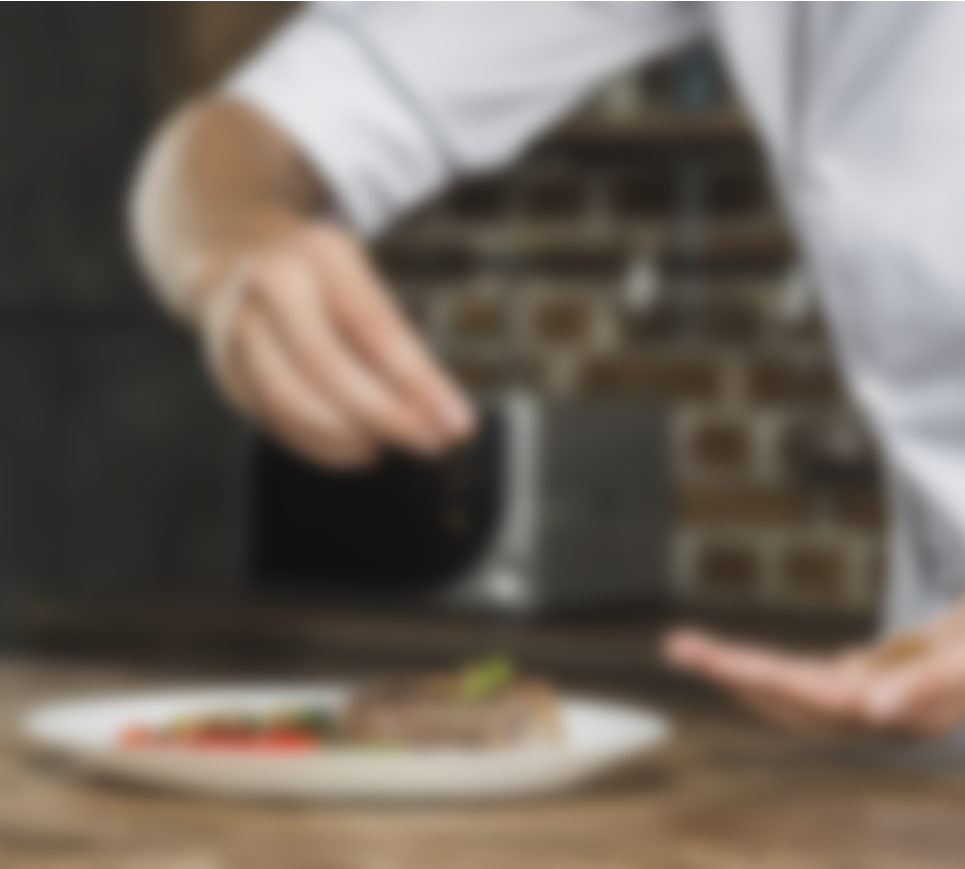
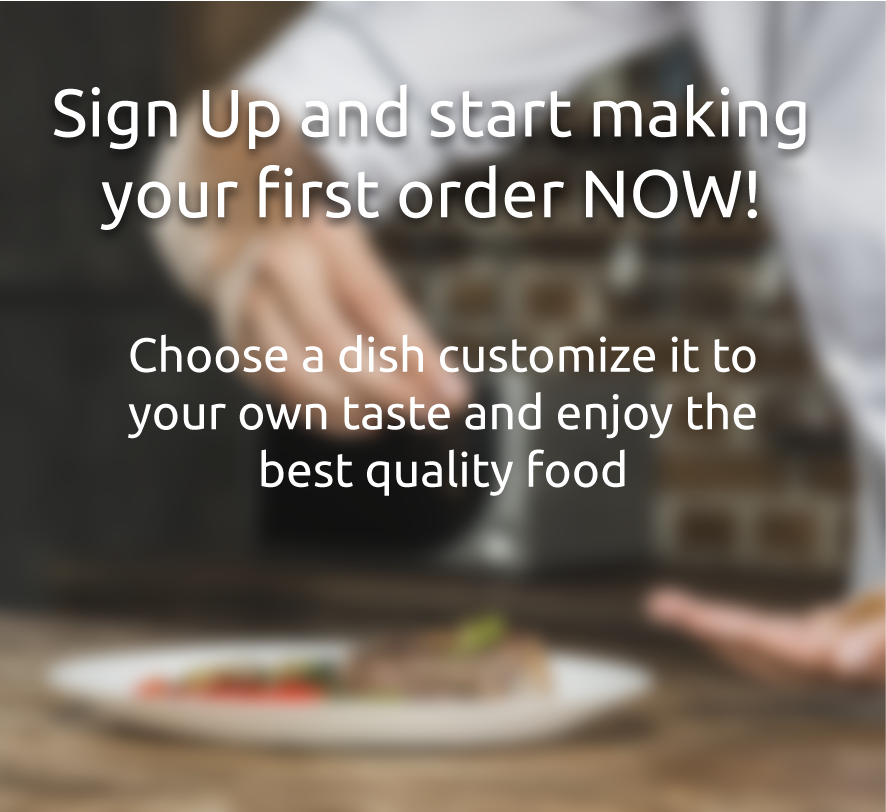
login con imagen de background

diff --git a/src/app/components/login/login.component.html b/src/app/components/login/login.component.html
@@ -1,10 +1,10 @@
 <div class="container">
-  <div class="row align-items-center">
-    <div class="col-lg-6 d-flex justify-content-end pr-0">
-      <img class="imagen" src="../../../assets/images/fotoLogin.png" alt="foto bienvenida">
+  <div class="row">
+    <div class="col-lg-6 col-sm-12 foto">
+
     </div>
-    <div class="col-lg-6 d-flex justify-content-start pl-0">
-      <img class="imagen" src="../../../assets/images/fotoLogin.png" alt="foto bienvenida">
+    <div class="col-lg-6 col-sm-12 formulario">
+
     </div>
   </div>
 </div>

diff --git a/src/app/components/login/login.component.scss b/src/app/components/login/login.component.scss
@@ -1,4 +1,11 @@
-.imagen {
-  width: 450px;
-  height: 450px;
+.foto{
+  background: url("../../../assets/images/fotoLogin.png");
+  background-size: cover;
+  height: 550px;
+}
+
+.formulario {
+  background-color: #23211A;
+  background-size: cover;
+  height: 550px;
 }

diff --git a/src/app/components/shared/footer/footer.component.html b/src/app/components/shared/footer/footer.component.html
@@ -11,4 +11,4 @@
       <a href="#"><img src="../../../../assets/images/instagram.png" width="20" alt="instagram" class="ml-3"></a>
     </span>
 
-</nav>
+  </nav>

diff --git a/src/app/components/shared/footer/footer.component.scss b/src/app/components/shared/footer/footer.component.scss
@@ -3,6 +3,7 @@ nav {
   color: #837E7E;
   font-family: 'Ubuntu', sans-serif;
   font-size: 1rem;
+  position: static;
 }
 
 .about {

diff --git a/src/app/app.component.scss b/src/app/app.component.scss
@@ -1,4 +1,5 @@
 .main-container{
     min-height:90vh;
     padding-top:5vh;
+    padding-bottom:5vh;
 }
